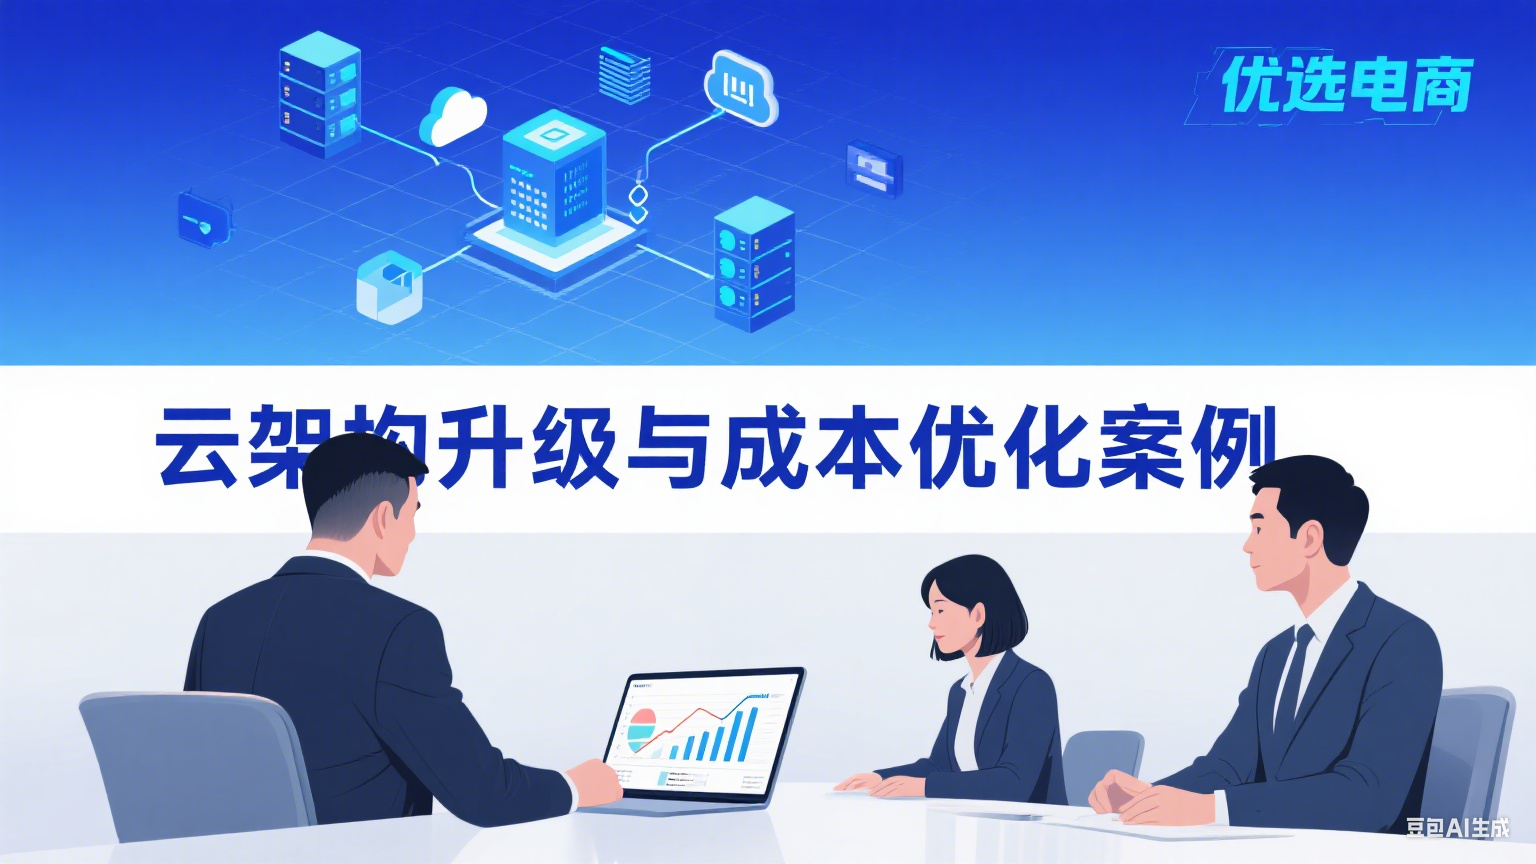
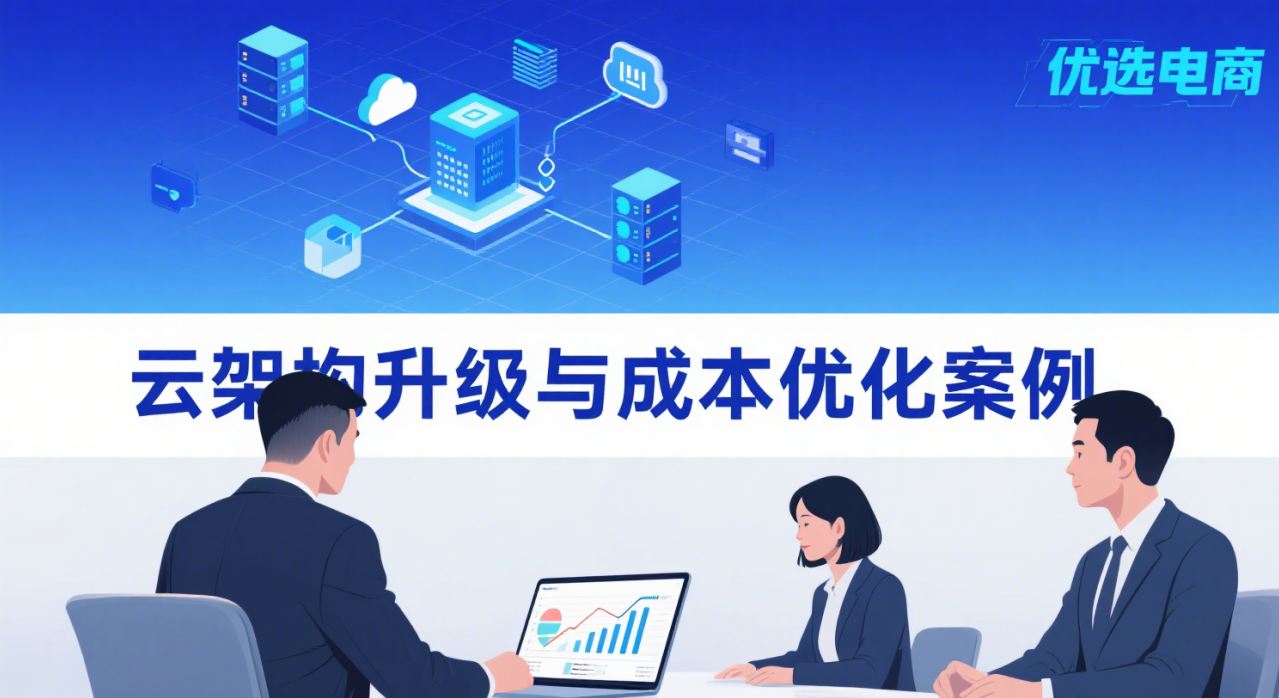
修改案例的图片以及修改网站分享信息

diff --git a/index.html b/index.html
@@ -4,6 +4,12 @@
 <head>
   <meta charset="UTF-8">
   <meta name="viewport" content="width=device-width, initial-scale=1.0">
+  <meta property="og:type" content="website">
+	<meta property="og:title" content="万裕德高">
+	<meta property="og:description" content="专业云计算服务提供商">
+	<meta property="og:image" content="/img/20250812-162449.png">
+	<meta property="og:url" content="https://www.wanyudegao.com">
+
   <title>万裕德高 - 专业云计算服务提供商</title>
   <!-- 引入外部资源 -->
   <script src="https://cdn.tailwindcss.com"></script>
